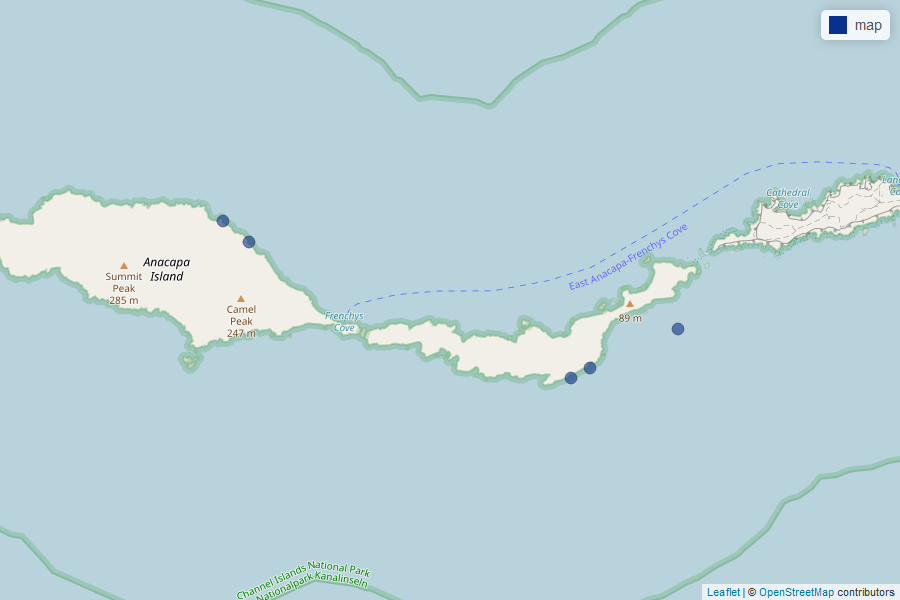
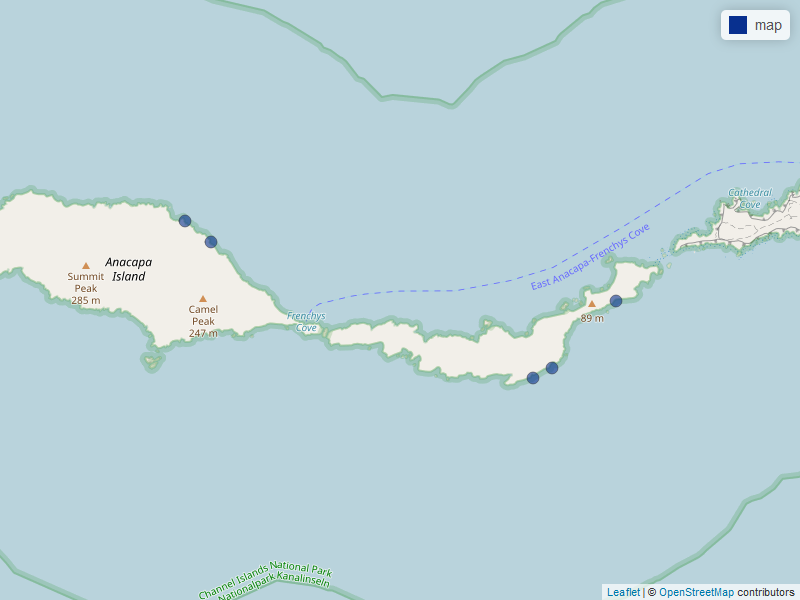
change coordinates for refuge

diff --git a/figures/site.html b/figures/site.html
@@ -23,11 +23,11 @@
 </head>
 <body style="background-color: white;">
 <div id="htmlwidget_container">
-<div id="htmlwidget-0f971dce3a6134df0561" class="leaflet html-widget" style="width:100%;height:400px;">
+<div id="htmlwidget-a28e5a8b6466c799221a" class="leaflet html-widget" style="width:100%;height:400px;">
 
 </div>
 </div>
-<script type="application/json" data-for="htmlwidget-0f971dce3a6134df0561">{"x":{"options":{"minZoom":1,"maxZoom":52,"crs":{"crsClass":"L.CRS.EPSG3857","code":null,"proj4def":null,"projectedBounds":null,"options":{}},"preferCanvas":false,"bounceAtZoomLimits":false,"maxBounds":[[[-90,-370]],[[90,370]]]},"calls":[{"method":"addProviderTiles","args":["OpenStreetMap.DE","OpenStreetMap.DE","OpenStreetMap.DE",{"errorTileUrl":"","noWrap":false,"detectRetina":false,"pane":"tilePane"}]},{"method":"createMapPane","args":["point",440]},{"method":"addCircleMarkers","args":[[34.003628,34.002931,34.014077,34.012606,34.006436],[-119.388258,-119.389906,-119.419765,-119.417497,-119.380704],6,null,"map",{"crs":{"crsClass":"L.CRS.EPSG3857","code":null,"proj4def":null,"projectedBounds":null,"options":{}},"pane":"point","stroke":true,"color":"#333333","weight":1,"opacity":0.5,"fill":true,"fillColor":"#08308F","fillOpacity":0.6},null,null,["<div class='scrollableContainer'><table class=mapview-popup id='popup'><tr class='coord'><td><\/td><th><b>Feature ID&emsp;<\/b><\/th><td>1&emsp;<\/td><\/tr><tr><td>1<\/td><th>site&emsp;<\/th><td>Lava Bench #1&emsp;<\/td><\/tr><tr><td>2<\/td><th>long&emsp;<\/th><td>-119.3883&emsp;<\/td><\/tr><tr><td>3<\/td><th>lat&emsp;<\/th><td>34.00363&emsp;<\/td><\/tr><tr><td>4<\/td><th>geometry&emsp;<\/th><td>sfc_POINT&emsp;<\/td><\/tr><\/table><\/div>","<div class='scrollableContainer'><table class=mapview-popup id='popup'><tr class='coord'><td><\/td><th><b>Feature ID&emsp;<\/b><\/th><td>2&emsp;<\/td><\/tr><tr><td>1<\/td><th>site&emsp;<\/th><td>Lava Bench #2&emsp;<\/td><\/tr><tr><td>2<\/td><th>long&emsp;<\/th><td>-119.3899&emsp;<\/td><\/tr><tr><td>3<\/td><th>lat&emsp;<\/th><td>34.00293&emsp;<\/td><\/tr><tr><td>4<\/td><th>geometry&emsp;<\/th><td>sfc_POINT&emsp;<\/td><\/tr><\/table><\/div>","<div class='scrollableContainer'><table class=mapview-popup id='popup'><tr class='coord'><td><\/td><th><b>Feature ID&emsp;<\/b><\/th><td>3&emsp;<\/td><\/tr><tr><td>1<\/td><th>site&emsp;<\/th><td>Pinnacle&emsp;<\/td><\/tr><tr><td>2<\/td><th>long&emsp;<\/th><td>-119.4198&emsp;<\/td><\/tr><tr><td>3<\/td><th>lat&emsp;<\/th><td>34.01408&emsp;<\/td><\/tr><tr><td>4<\/td><th>geometry&emsp;<\/th><td>sfc_POINT&emsp;<\/td><\/tr><\/table><\/div>","<div class='scrollableContainer'><table class=mapview-popup id='popup'><tr class='coord'><td><\/td><th><b>Feature ID&emsp;<\/b><\/th><td>4&emsp;<\/td><\/tr><tr><td>1<\/td><th>site&emsp;<\/th><td>Moss&emsp;<\/td><\/tr><tr><td>2<\/td><th>long&emsp;<\/th><td>-119.4175&emsp;<\/td><\/tr><tr><td>3<\/td><th>lat&emsp;<\/th><td>34.01261&emsp;<\/td><\/tr><tr><td>4<\/td><th>geometry&emsp;<\/th><td>sfc_POINT&emsp;<\/td><\/tr><\/table><\/div>","<div class='scrollableContainer'><table class=mapview-popup id='popup'><tr class='coord'><td><\/td><th><b>Feature ID&emsp;<\/b><\/th><td>5&emsp;<\/td><\/tr><tr><td>1<\/td><th>site&emsp;<\/th><td>Refuge&emsp;<\/td><\/tr><tr><td>2<\/td><th>long&emsp;<\/th><td>-119.3807&emsp;<\/td><\/tr><tr><td>3<\/td><th>lat&emsp;<\/th><td>34.00644&emsp;<\/td><\/tr><tr><td>4<\/td><th>geometry&emsp;<\/th><td>sfc_POINT&emsp;<\/td><\/tr><\/table><\/div>"],{"maxWidth":800,"minWidth":50,"autoPan":true,"keepInView":false,"closeButton":true,"closeOnClick":true,"className":""},["1","2","3","4","5"],{"interactive":false,"permanent":false,"direction":"auto","opacity":1,"offset":[0,0],"textsize":"10px","textOnly":false,"className":"","sticky":true},null]},{"method":"addScaleBar","args":[{"maxWidth":100,"metric":true,"imperial":true,"updateWhenIdle":true,"position":"bottomleft"}]},{"method":"addHomeButton","args":[-119.419765,34.002931,-119.380704,34.014077,true,"map","Zoom to map","<strong> map <\/strong>","bottomright"]},{"method":"addLayersControl","args":["OpenStreetMap.DE","map",{"collapsed":true,"autoZIndex":true,"position":"topleft"}]},{"method":"addLegend","args":[{"colors":["#08308F"],"labels":["map"],"na_color":null,"na_label":"NA","opacity":1,"position":"topright","type":"factor","title":"","extra":null,"layerId":null,"className":"info legend","group":"map"}]}],"limits":{"lat":[34.002931,34.014077],"lng":[-119.419765,-119.380704]},"fitBounds":[34.002931,-119.419765,34.014077,-119.380704,[]]},"evals":[],"jsHooks":{"render":[{"code":"function(el, x, data) {\n  return (\n      function(el, x, data) {\n      // get the leaflet map\n      var map = this; //HTMLWidgets.find('#' + el.id);\n      // we need a new div element because we have to handle\n      // the mouseover output separately\n      // debugger;\n      function addElement () {\n      // generate new div Element\n      var newDiv = $(document.createElement('div'));\n      // append at end of leaflet htmlwidget container\n      $(el).append(newDiv);\n      //provide ID and style\n      newDiv.addClass('lnlt');\n      newDiv.css({\n      'position': 'relative',\n      'bottomleft':  '0px',\n      'background-color': 'rgba(255, 255, 255, 0.7)',\n      'box-shadow': '0 0 2px #bbb',\n      'background-clip': 'padding-box',\n      'margin': '0',\n      'padding-left': '5px',\n      'color': '#333',\n      'font': '9px/1.5 \"Helvetica Neue\", Arial, Helvetica, sans-serif',\n      'z-index': '700',\n      });\n      return newDiv;\n      }\n\n\n      // check for already existing lnlt class to not duplicate\n      var lnlt = $(el).find('.lnlt');\n\n      if(!lnlt.length) {\n      lnlt = addElement();\n\n      // grab the special div we generated in the beginning\n      // and put the mousmove output there\n\n      map.on('mousemove', function (e) {\n      if (e.originalEvent.ctrlKey) {\n      if (document.querySelector('.lnlt') === null) lnlt = addElement();\n      lnlt.text(\n                           ' lon: ' + (e.latlng.lng).toFixed(5) +\n                           ' | lat: ' + (e.latlng.lat).toFixed(5) +\n                           ' | zoom: ' + map.getZoom() +\n                           ' | x: ' + L.CRS.EPSG3857.project(e.latlng).x.toFixed(0) +\n                           ' | y: ' + L.CRS.EPSG3857.project(e.latlng).y.toFixed(0) +\n                           ' | epsg: 3857 ' +\n                           ' | proj4: +proj=merc +a=6378137 +b=6378137 +lat_ts=0.0 +lon_0=0.0 +x_0=0.0 +y_0=0 +k=1.0 +units=m +nadgrids=@null +no_defs ');\n      } else {\n      if (document.querySelector('.lnlt') === null) lnlt = addElement();\n      lnlt.text(\n                      ' lon: ' + (e.latlng.lng).toFixed(5) +\n                      ' | lat: ' + (e.latlng.lat).toFixed(5) +\n                      ' | zoom: ' + map.getZoom() + ' ');\n      }\n      });\n\n      // remove the lnlt div when mouse leaves map\n      map.on('mouseout', function (e) {\n      var strip = document.querySelector('.lnlt');\n      if( strip !==null) strip.remove();\n      });\n\n      };\n\n      //$(el).keypress(67, function(e) {\n      map.on('preclick', function(e) {\n      if (e.originalEvent.ctrlKey) {\n      if (document.querySelector('.lnlt') === null) lnlt = addElement();\n      lnlt.text(\n                      ' lon: ' + (e.latlng.lng).toFixed(5) +\n                      ' | lat: ' + (e.latlng.lat).toFixed(5) +\n                      ' | zoom: ' + map.getZoom() + ' ');\n      var txt = document.querySelector('.lnlt').textContent;\n      console.log(txt);\n      //txt.innerText.focus();\n      //txt.select();\n      setClipboardText('\"' + txt + '\"');\n      }\n      });\n\n      }\n      ).call(this.getMap(), el, x, data);\n}","data":null},{"code":"function(el, x, data) {\n  return (function(el,x,data){\n           var map = this;\n\n           map.on('keypress', function(e) {\n               console.log(e.originalEvent.code);\n               var key = e.originalEvent.code;\n               if (key === 'KeyE') {\n                   var bb = this.getBounds();\n                   var txt = JSON.stringify(bb);\n                   console.log(txt);\n\n                   setClipboardText('\\'' + txt + '\\'');\n               }\n           })\n        }).call(this.getMap(), el, x, data);\n}","data":null}]}}</script>
-<script type="application/htmlwidget-sizing" data-for="htmlwidget-0f971dce3a6134df0561">{"viewer":{"width":"100%","height":400,"padding":0,"fill":true},"browser":{"width":"100%","height":400,"padding":0,"fill":true}}</script>
+<script type="application/json" data-for="htmlwidget-a28e5a8b6466c799221a">{"x":{"options":{"minZoom":1,"maxZoom":52,"crs":{"crsClass":"L.CRS.EPSG3857","code":null,"proj4def":null,"projectedBounds":null,"options":{}},"preferCanvas":false,"bounceAtZoomLimits":false,"maxBounds":[[[-90,-370]],[[90,370]]]},"calls":[{"method":"addProviderTiles","args":["OpenStreetMap.DE","OpenStreetMap.DE","OpenStreetMap.DE",{"errorTileUrl":"","noWrap":false,"detectRetina":false,"pane":"tilePane"}]},{"method":"createMapPane","args":["point",440]},{"method":"addCircleMarkers","args":[[34.003628,34.002931,34.014077,34.012606,34.008397],[-119.388258,-119.389906,-119.419765,-119.417497,-119.38278],6,null,"map",{"crs":{"crsClass":"L.CRS.EPSG3857","code":null,"proj4def":null,"projectedBounds":null,"options":{}},"pane":"point","stroke":true,"color":"#333333","weight":1,"opacity":0.5,"fill":true,"fillColor":"#08308F","fillOpacity":0.6},null,null,["<div class='scrollableContainer'><table class=mapview-popup id='popup'><tr class='coord'><td><\/td><th><b>Feature ID&emsp;<\/b><\/th><td>1&emsp;<\/td><\/tr><tr><td>1<\/td><th>long&emsp;<\/th><td>-119.3883&emsp;<\/td><\/tr><tr><td>2<\/td><th>lat&emsp;<\/th><td>34.00363&emsp;<\/td><\/tr><tr><td>3<\/td><th>site&emsp;<\/th><td>Lava Bench #1&emsp;<\/td><\/tr><tr><td>4<\/td><th>geometry&emsp;<\/th><td>sfc_POINT&emsp;<\/td><\/tr><\/table><\/div>","<div class='scrollableContainer'><table class=mapview-popup id='popup'><tr class='coord'><td><\/td><th><b>Feature ID&emsp;<\/b><\/th><td>2&emsp;<\/td><\/tr><tr><td>1<\/td><th>long&emsp;<\/th><td>-119.3899&emsp;<\/td><\/tr><tr><td>2<\/td><th>lat&emsp;<\/th><td>34.00293&emsp;<\/td><\/tr><tr><td>3<\/td><th>site&emsp;<\/th><td>Lava Bench #2&emsp;<\/td><\/tr><tr><td>4<\/td><th>geometry&emsp;<\/th><td>sfc_POINT&emsp;<\/td><\/tr><\/table><\/div>","<div class='scrollableContainer'><table class=mapview-popup id='popup'><tr class='coord'><td><\/td><th><b>Feature ID&emsp;<\/b><\/th><td>3&emsp;<\/td><\/tr><tr><td>1<\/td><th>long&emsp;<\/th><td>-119.4198&emsp;<\/td><\/tr><tr><td>2<\/td><th>lat&emsp;<\/th><td>34.01408&emsp;<\/td><\/tr><tr><td>3<\/td><th>site&emsp;<\/th><td>Pinnacle&emsp;<\/td><\/tr><tr><td>4<\/td><th>geometry&emsp;<\/th><td>sfc_POINT&emsp;<\/td><\/tr><\/table><\/div>","<div class='scrollableContainer'><table class=mapview-popup id='popup'><tr class='coord'><td><\/td><th><b>Feature ID&emsp;<\/b><\/th><td>4&emsp;<\/td><\/tr><tr><td>1<\/td><th>long&emsp;<\/th><td>-119.4175&emsp;<\/td><\/tr><tr><td>2<\/td><th>lat&emsp;<\/th><td>34.01261&emsp;<\/td><\/tr><tr><td>3<\/td><th>site&emsp;<\/th><td>Moss&emsp;<\/td><\/tr><tr><td>4<\/td><th>geometry&emsp;<\/th><td>sfc_POINT&emsp;<\/td><\/tr><\/table><\/div>","<div class='scrollableContainer'><table class=mapview-popup id='popup'><tr class='coord'><td><\/td><th><b>Feature ID&emsp;<\/b><\/th><td>5&emsp;<\/td><\/tr><tr><td>1<\/td><th>long&emsp;<\/th><td>-119.3828&emsp;<\/td><\/tr><tr><td>2<\/td><th>lat&emsp;<\/th><td>34.00840&emsp;<\/td><\/tr><tr><td>3<\/td><th>site&emsp;<\/th><td>Refuge&emsp;<\/td><\/tr><tr><td>4<\/td><th>geometry&emsp;<\/th><td>sfc_POINT&emsp;<\/td><\/tr><\/table><\/div>"],{"maxWidth":800,"minWidth":50,"autoPan":true,"keepInView":false,"closeButton":true,"closeOnClick":true,"className":""},["1","2","3","4","5"],{"interactive":false,"permanent":false,"direction":"auto","opacity":1,"offset":[0,0],"textsize":"10px","textOnly":false,"className":"","sticky":true},null]},{"method":"addScaleBar","args":[{"maxWidth":100,"metric":true,"imperial":true,"updateWhenIdle":true,"position":"bottomleft"}]},{"method":"addHomeButton","args":[-119.419765,34.002931,-119.38278,34.014077,true,"map","Zoom to map","<strong> map <\/strong>","bottomright"]},{"method":"addLayersControl","args":["OpenStreetMap.DE","map",{"collapsed":true,"autoZIndex":true,"position":"topleft"}]},{"method":"addLegend","args":[{"colors":["#08308F"],"labels":["map"],"na_color":null,"na_label":"NA","opacity":1,"position":"topright","type":"factor","title":"","extra":null,"layerId":null,"className":"info legend","group":"map"}]}],"limits":{"lat":[34.002931,34.014077],"lng":[-119.419765,-119.38278]},"fitBounds":[34.002931,-119.419765,34.014077,-119.38278,[]]},"evals":[],"jsHooks":{"render":[{"code":"function(el, x, data) {\n  return (\n      function(el, x, data) {\n      // get the leaflet map\n      var map = this; //HTMLWidgets.find('#' + el.id);\n      // we need a new div element because we have to handle\n      // the mouseover output separately\n      // debugger;\n      function addElement () {\n      // generate new div Element\n      var newDiv = $(document.createElement('div'));\n      // append at end of leaflet htmlwidget container\n      $(el).append(newDiv);\n      //provide ID and style\n      newDiv.addClass('lnlt');\n      newDiv.css({\n      'position': 'relative',\n      'bottomleft':  '0px',\n      'background-color': 'rgba(255, 255, 255, 0.7)',\n      'box-shadow': '0 0 2px #bbb',\n      'background-clip': 'padding-box',\n      'margin': '0',\n      'padding-left': '5px',\n      'color': '#333',\n      'font': '9px/1.5 \"Helvetica Neue\", Arial, Helvetica, sans-serif',\n      'z-index': '700',\n      });\n      return newDiv;\n      }\n\n\n      // check for already existing lnlt class to not duplicate\n      var lnlt = $(el).find('.lnlt');\n\n      if(!lnlt.length) {\n      lnlt = addElement();\n\n      // grab the special div we generated in the beginning\n      // and put the mousmove output there\n\n      map.on('mousemove', function (e) {\n      if (e.originalEvent.ctrlKey) {\n      if (document.querySelector('.lnlt') === null) lnlt = addElement();\n      lnlt.text(\n                           ' lon: ' + (e.latlng.lng).toFixed(5) +\n                           ' | lat: ' + (e.latlng.lat).toFixed(5) +\n                           ' | zoom: ' + map.getZoom() +\n                           ' | x: ' + L.CRS.EPSG3857.project(e.latlng).x.toFixed(0) +\n                           ' | y: ' + L.CRS.EPSG3857.project(e.latlng).y.toFixed(0) +\n                           ' | epsg: 3857 ' +\n                           ' | proj4: +proj=merc +a=6378137 +b=6378137 +lat_ts=0.0 +lon_0=0.0 +x_0=0.0 +y_0=0 +k=1.0 +units=m +nadgrids=@null +no_defs ');\n      } else {\n      if (document.querySelector('.lnlt') === null) lnlt = addElement();\n      lnlt.text(\n                      ' lon: ' + (e.latlng.lng).toFixed(5) +\n                      ' | lat: ' + (e.latlng.lat).toFixed(5) +\n                      ' | zoom: ' + map.getZoom() + ' ');\n      }\n      });\n\n      // remove the lnlt div when mouse leaves map\n      map.on('mouseout', function (e) {\n      var strip = document.querySelector('.lnlt');\n      if( strip !==null) strip.remove();\n      });\n\n      };\n\n      //$(el).keypress(67, function(e) {\n      map.on('preclick', function(e) {\n      if (e.originalEvent.ctrlKey) {\n      if (document.querySelector('.lnlt') === null) lnlt = addElement();\n      lnlt.text(\n                      ' lon: ' + (e.latlng.lng).toFixed(5) +\n                      ' | lat: ' + (e.latlng.lat).toFixed(5) +\n                      ' | zoom: ' + map.getZoom() + ' ');\n      var txt = document.querySelector('.lnlt').textContent;\n      console.log(txt);\n      //txt.innerText.focus();\n      //txt.select();\n      setClipboardText('\"' + txt + '\"');\n      }\n      });\n\n      }\n      ).call(this.getMap(), el, x, data);\n}","data":null},{"code":"function(el, x, data) {\n  return (function(el,x,data){\n           var map = this;\n\n           map.on('keypress', function(e) {\n               console.log(e.originalEvent.code);\n               var key = e.originalEvent.code;\n               if (key === 'KeyE') {\n                   var bb = this.getBounds();\n                   var txt = JSON.stringify(bb);\n                   console.log(txt);\n\n                   setClipboardText('\\'' + txt + '\\'');\n               }\n           })\n        }).call(this.getMap(), el, x, data);\n}","data":null}]}}</script>
+<script type="application/htmlwidget-sizing" data-for="htmlwidget-a28e5a8b6466c799221a">{"viewer":{"width":"100%","height":400,"padding":0,"fill":true},"browser":{"width":"100%","height":400,"padding":0,"fill":true}}</script>
 </body>
 </html>
